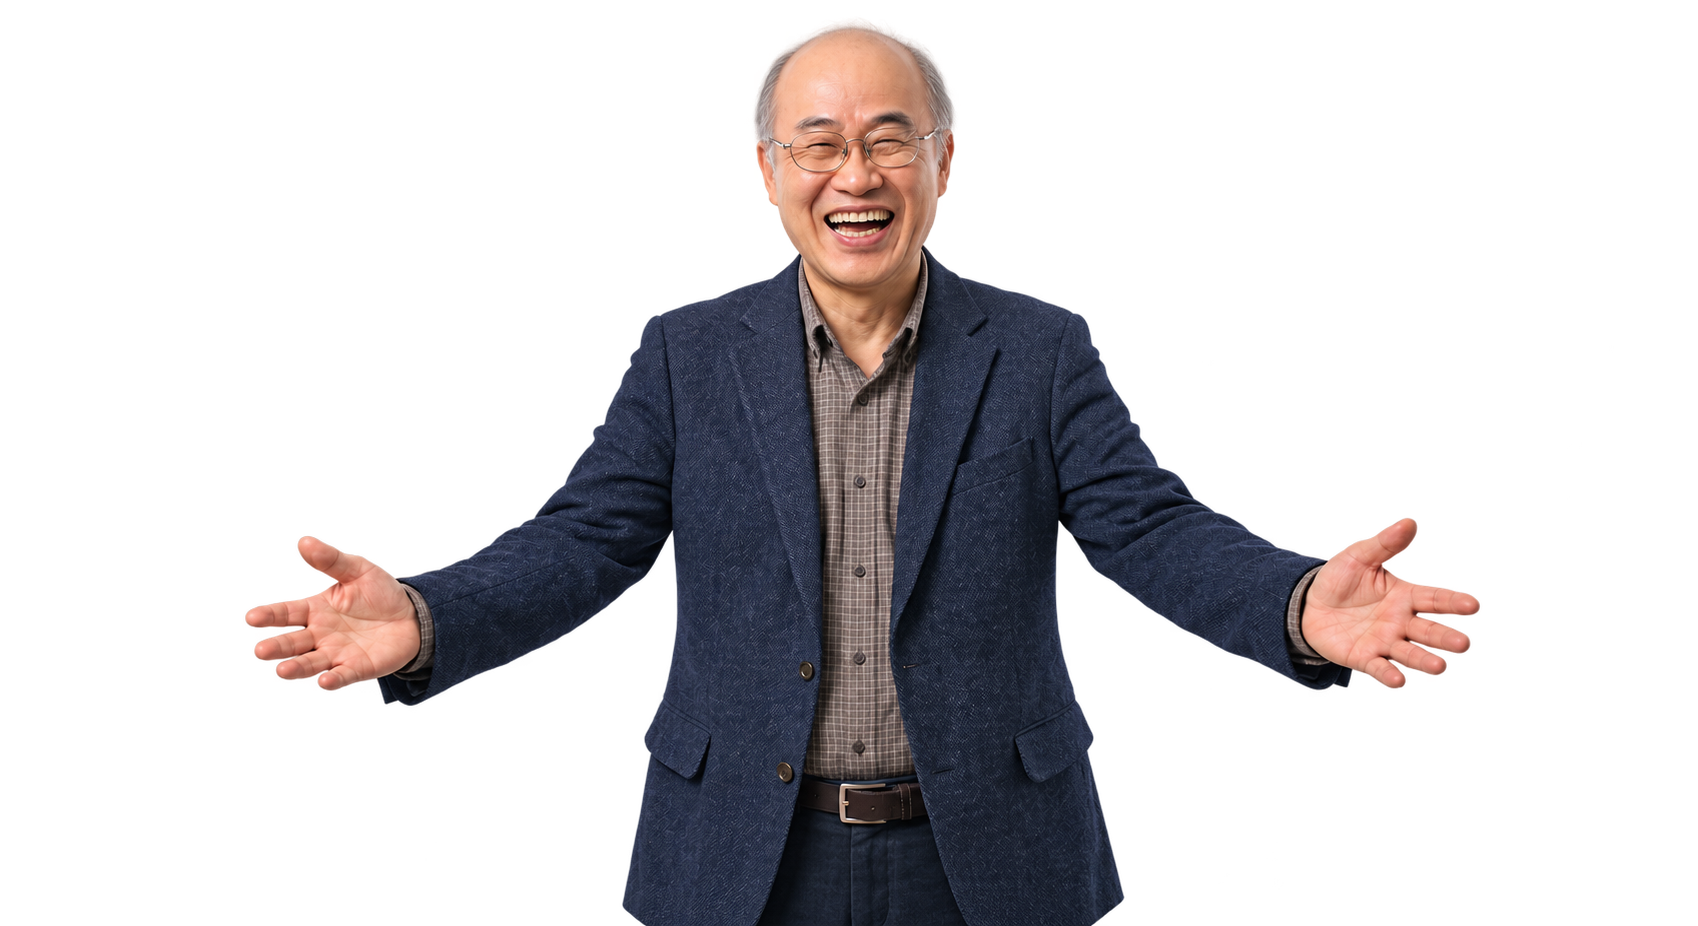
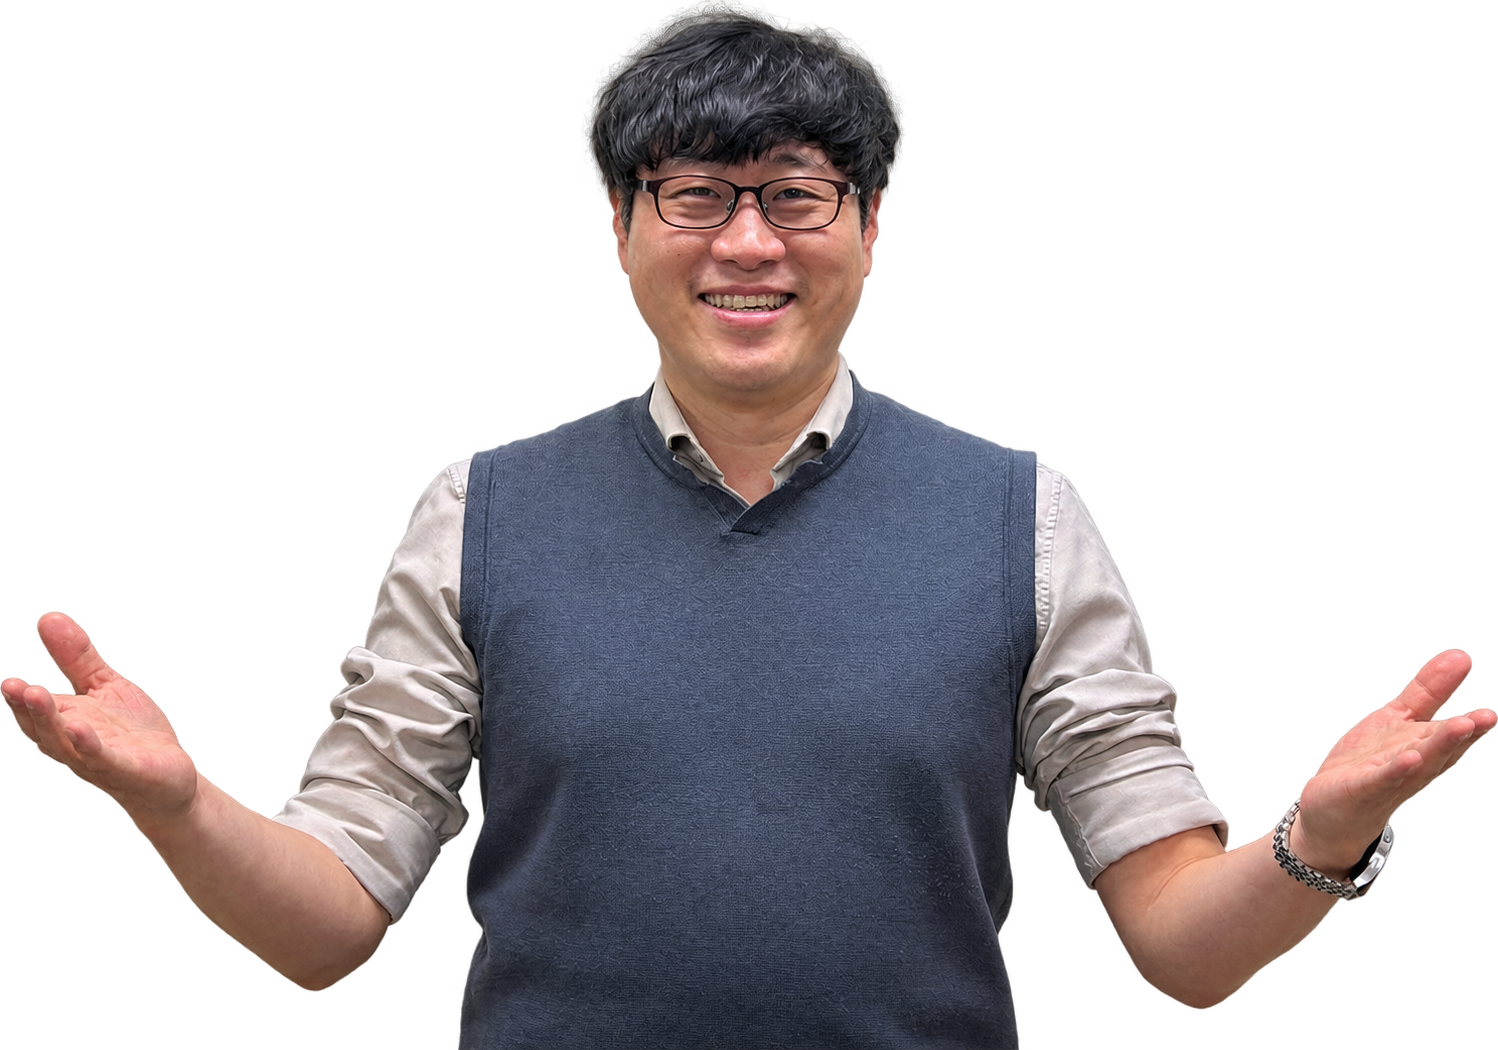
Update professor Sim portrait and name

diff --git a/Assets/Scripts/Stories/Engineering/AiSwStory.cs b/Assets/Scripts/Stories/Engineering/AiSwStory.cs
@@ -1,6 +1,6 @@
 // 컴퓨터공학과: fixed events and choices; relationship changes only the professor's response.
-// Both professors' tones live here ("교수|김가람|이명희"); the quiz questions come from AiSwQuizzes.
-// 김가람: a terse tsundere who praises sideways. 이명희: a chatty dev geek full of game and meme metaphors.
+// Both professors' tones live here ("교수|심한뫼|이명희"); the quiz questions come from AiSwQuizzes.
+// 심한뫼: a terse tsundere who praises sideways. 이명희: a chatty dev geek full of game and meme metaphors.
 public static class AiSwStory
 {
     public static readonly string[][] Dialogue = {
@@ -160,7 +160,7 @@ public static class AiSwStory
         } };
 
     // Scores and replies follow the twelve slots; null rows are quizzes or minigames.
-    // 김가람 likes quiet effort, owning mistakes and working things out alone; 이명희 likes curiosity and company.
+    // 심한뫼 likes quiet effort, owning mistakes and working things out alone; 이명희 likes curiosity and company.
     static readonly int[][] KimScores = {
         new[] {-1, 1}, new[] {1, 0, 2}, new[] {2, 1, -1}, null, null, null,
         null, new[] {1, 0, 2}, new[] {2, -2, 1}, null, null, new[] {1, 1, 2}
@@ -259,7 +259,7 @@ public static class AiSwStory
         Levels = new[] { "전공자", "비전공자" },
         LevelNotes = new[] { "코드를 직접 입력해서 문제 풀기", "쉬운 설명과 객관식으로 문제 풀기" },
         Professors = new[] {
-            new Professor { Name = "김가람 교수", Description = "과묵한 츤데레 · 말은 짧아도 속으로 챙김", TagA = "#츤데레", TagB = "#나쁘지않네요", Image = "ProfessorKim" },
+            new Professor { Name = "심한뫼 교수", Description = "과묵한 츤데레 · 말은 짧아도 속으로 챙김", TagA = "#츤데레", TagB = "#나쁘지않네요", Image = "ProfessorKim" },
             new Professor { Name = "이명희 교수", Description = "수다스러운 개발 덕후 · 게임과 밈으로 설명", TagA = "#개발덕후", TagB = "#TMI장인", Image = "ProfessorLee" }
         },
         Fond = new[] { "…요즘은 좀 믿고 맡겨요.", "아 진짜, 학생이랑 얘기하면 시간 순삭이에요!" },

diff --git a/Assets/Scripts/PortraitFaces.cs b/Assets/Scripts/PortraitFaces.cs
@@ -61,9 +61,10 @@ public static class PortraitFaces
         ["ProfessorKangFrownTransparent"] = new Entry(0.4976f, 0.1172f, 0.1091f, 0.9881f, 1.8348f),
         ["ProfessorKangHappyTransparent"] = new Entry(0.4976f, 0.1140f, 0.1058f, 0.9892f, 1.8306f),
         ["ProfessorKangTransparent"] = new Entry(0.4971f, 0.1102f, 0.1007f, 0.9870f, 1.8348f),
-        ["ProfessorKimFrownTransparent"] = new Entry(0.5050f, 0.1795f, 0.2188f, 1.0000f, 1.8337f),
-        ["ProfessorKimHappyTransparent"] = new Entry(0.5053f, 0.1771f, 0.2246f, 1.0000f, 1.8337f),
-        ["ProfessorKimTransparent"] = new Entry(0.5012f, 0.1050f, 0.1280f, 0.9892f, 1.8337f),
+        ["ProfessorKimFrownTransparent"] = new Entry(0.4897f, 0.2407f, 0.1753f, 1.0000f, 0.8582f),
+        ["ProfessorKimHappyTransparent"] = new Entry(0.5080f, 0.2370f, 0.1815f, 1.0000f, 1.4267f),
+        ["ProfessorKimHoverTransparent"] = new Entry(0.4879f, 0.3998f, 0.3013f, 1.0000f, 1.3333f),
+        ["ProfessorKimTransparent"] = new Entry(0.4986f, 0.2263f, 0.1569f, 1.0000f, 0.7500f),
         ["ProfessorKwonDoKyungFrownTransparent"] = new Entry(0.4982f, 0.2428f, 0.2657f, 1.0000f, 1.8337f),
         ["ProfessorKwonDoKyungHappyTransparent"] = new Entry(0.4953f, 0.2471f, 0.2657f, 1.0000f, 1.8337f),
         ["ProfessorKwonDoKyungTransparent"] = new Entry(0.4959f, 0.2446f, 0.2614f, 1.0000f, 1.8348f),
@@ -168,9 +169,10 @@ public static class PortraitFaces
         ["ProfessorKangFrownTransparent"] = "446606a84e13",
         ["ProfessorKangHappyTransparent"] = "b851d42ebed5",
         ["ProfessorKangTransparent"] = "58b85173a238",
-        ["ProfessorKimFrownTransparent"] = "852d3375ec15",
-        ["ProfessorKimHappyTransparent"] = "48f6e80cf874",
-        ["ProfessorKimTransparent"] = "f9a73372b740",
+        ["ProfessorKimFrownTransparent"] = "c54cbd7a2984",
+        ["ProfessorKimHappyTransparent"] = "4f9d3813d4b9",
+        ["ProfessorKimHoverTransparent"] = "122e9cff08a2",
+        ["ProfessorKimTransparent"] = "550ec9aebdb6",
         ["ProfessorKwonDoKyungFrownTransparent"] = "9affd0c38873",
         ["ProfessorKwonDoKyungHappyTransparent"] = "4153078f144a",
         ["ProfessorKwonDoKyungTransparent"] = "9943734a27c4",

diff --git a/Assets/Scripts/GameController.cs b/Assets/Scripts/GameController.cs
@@ -725,7 +725,7 @@ public partial class GameController : MonoBehaviour
         NovelUI.Card(face, Color.white, 30, hover ? NovelUI.DeepPink : NovelUI.Pink, hover ? 4 : 3);
         Rect photo = new Rect(face.x + 18, face.y + 18, face.width - 36, 210);
         NovelUI.Fill(photo, NovelUI.Blush, 22);
-        string picture = Professor.Picture(info, who, hover ? "Happy" : "");
+        string picture = Professor.Picture(info, who, hover ? (info.Image == "ProfessorKim" ? "Hover" : "Happy") : "");
         Texture2D portrait = Resources.Load<Texture2D>(picture);
         // Hovering zooms in on the face.
         if (portrait != null && !DrawPortraitInFrame(photo, portrait, hover ? .44f : .3f, hover ? .42f : .3f) && NovelUI.Repaint)

diff --git a/Tools/generate_portrait_faces.py b/Tools/generate_portrait_faces.py
@@ -34,7 +34,7 @@ CASCADES = [cv2.CascadeClassifier(cv2.data.haarcascades + n)
 
 
 def professor_of(name):
-    return re.sub(r"(Happy|Frown)?Transparent$", "", name)
+    return re.sub(r"(Happy|Frown|Hover)?Transparent$", "", name)
 
 
 def detect(img, bbox):

diff --git a/PROGRESS.md b/PROGRESS.md
@@ -18,6 +18,7 @@
 ---
 
 ## 2. 완료 및 검증 (Done)
+- **[Codex] 2026-11-05 심한뫼 교수 사진 교체**: IMG_6931 기본, IMG_6939 기쁨, IMG_6950 화남 사진을 배경 제거 PNG로 교체하고, IMG_6937 근접 사진을 교수 선택 카드 마우스 오버 전용 `ProfessorKimHoverTransparent`로 연결. 얼굴 위치 표는 심한뫼 4장만 재생성하고 기존 에셋 GUID와 다른 교수 데이터를 보존. Unity 6000.3.23f1 배치 가져오기·스크립트 컴파일 완료(로그 return code 0), 회귀 테스트 5종 및 `git diff --check` 통과. 기존 AiProfessor 경고와 다른 교수 로컬 초상 9장의 얼굴 위치 표 미등록 경고는 남아 있음. 선택 화면 실제 마우스 오버 및 플레이 화면 시각 검증은 미검증.
 - **[Claude] 2026-11-05 AI 서버 GPT-6.1 Terra 전환 + 채점·입력 버그 수정**:
   - [`worker.js`](Server/ai-proxy/worker.js): `gpt-6.1-terra`(12초) 우선, 실패·시간 초과·빈 응답·일일 한도(하루 500회, `TERRA_DAILY_LIMIT`) 초과 시 Gemini(22초)로 자동 전환. OpenAI 401/403/429면 10분간 Terra 건너뜀. 응답 헤더 `X-AION-Model`. 배포 완료(버전 2a9046dd, 시크릿 `OPENAI_API_KEY`). 빌린 OpenAI 계정이라 계정 쪽 한도를 못 걸어 일일 횟수가 비용 상한.
   - [`AiProfessor.cs`](Assets/Scripts/AiProfessor.cs) `GradeAnswer`: 판정 값은 허용 단어와 정확히 일치, 선택지는 0~N 정수만 인정(나머지는 형식 오류).
